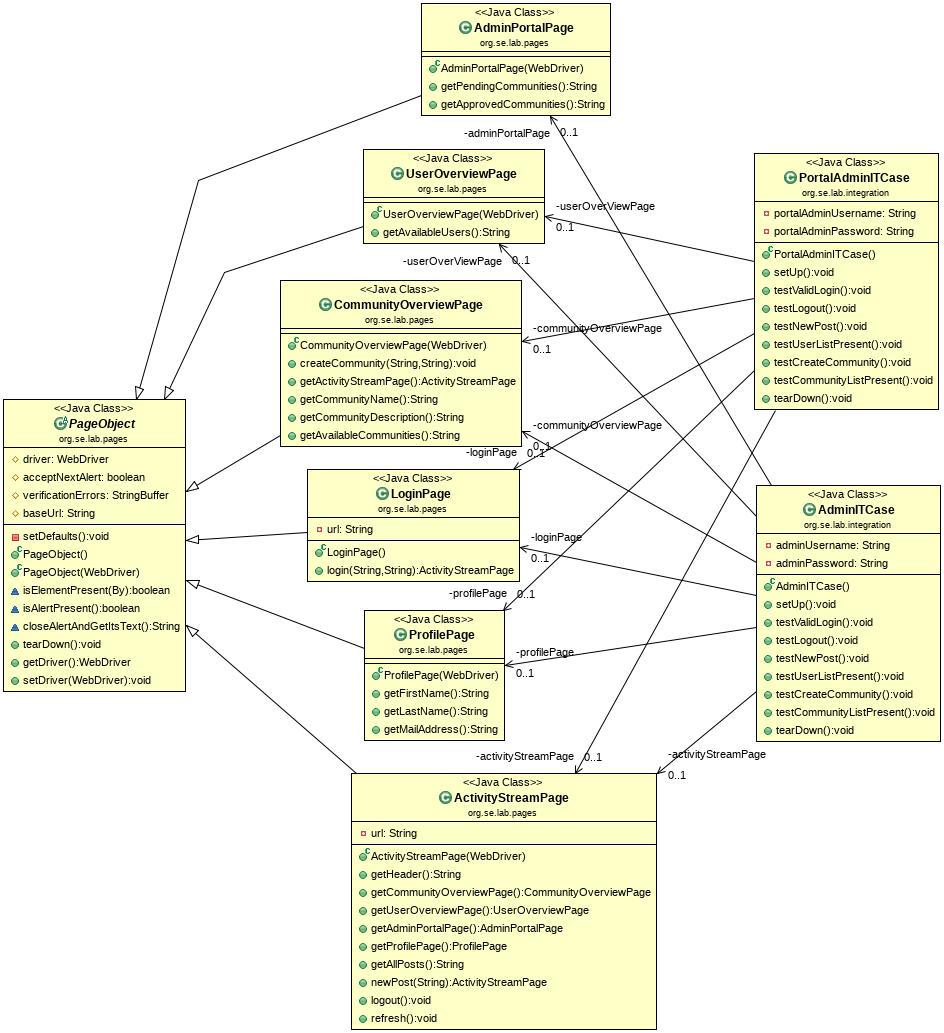
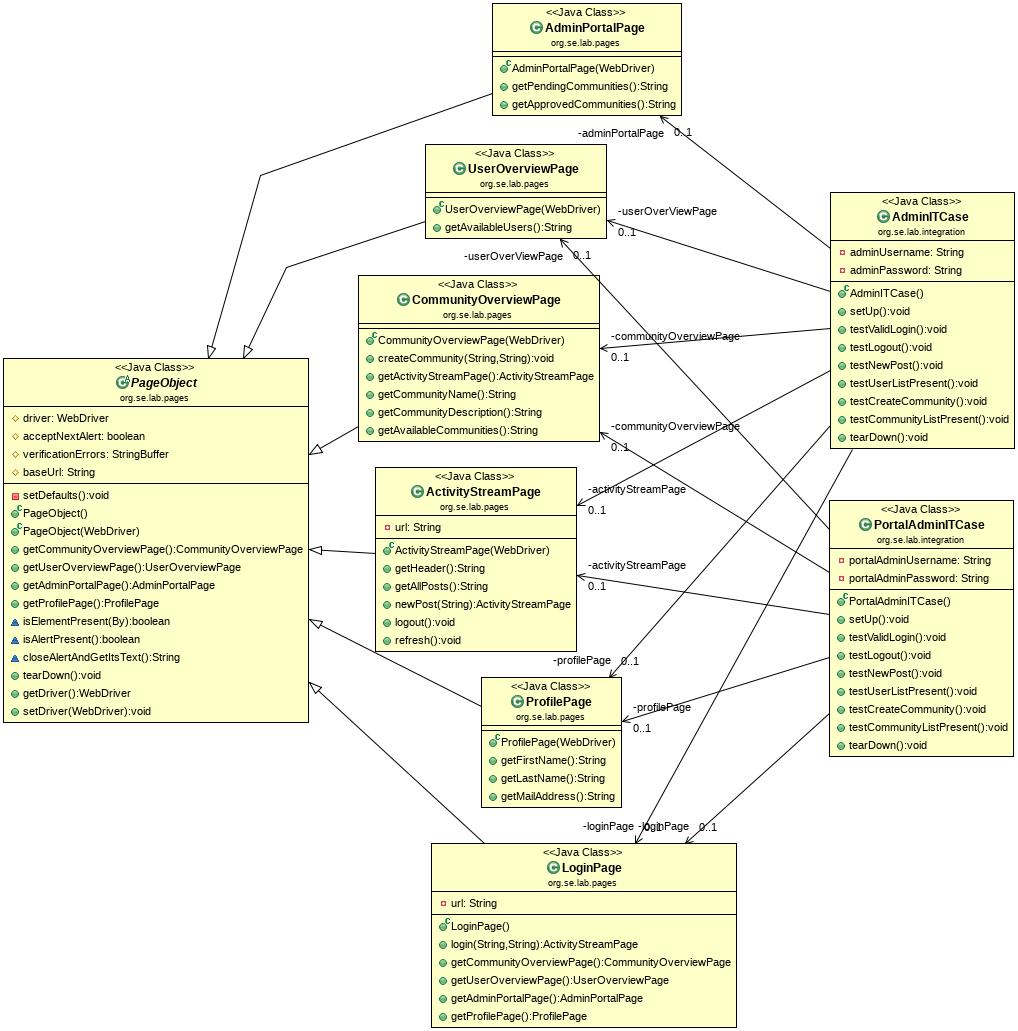
cleanup

Changed region(s): [[0.0, 0.0, 1.0, 1.0], [0.7066, 0.6518, 0.7373, 0.6828], [0.2458, 0.1552, 0.2765, 0.1862]]

diff --git a/src/test/java/org/se/lab/pages/ActivityStreamPage.java b/src/test/java/org/se/lab/pages/ActivityStreamPage.java
@@ -14,17 +14,18 @@ public class ActivityStreamPage extends PageObject {
 	public String getHeader() {
 		return driver.findElement(By.cssSelector("h2")).getText();
 	}
-
-	public CommunityOverviewPage getCommunityOverviewPage() {
-		// navigate to communityoverview.xhtml
-		driver.findElement(By.id("j_idt10:j_idt13")).click();
-		return new CommunityOverviewPage(driver);
+	
+	public String getAllPosts() {
+		return driver.findElement(By.id("j_idt22")).getText();
 	}
 
-	public UserOverviewPage getUserOverviewPage() {
-		// navigate to useroverview.xhtml
-		driver.findElement(By.id("j_idt10:j_idt14")).click();
-		return new UserOverviewPage(driver);
+	public ActivityStreamPage newPost(String message) {
+		driver.findElement(By.cssSelector("button.btn.btn-success")).click();
+		driver.findElement(By.id("input_j_idt24:j_idt26")).clear();
+		driver.findElement(By.id("input_j_idt24:j_idt26")).sendKeys(message);
+		driver.findElement(By.id("j_idt24:j_idt29")).click();
+		System.out.println(getAllPosts());
+		return this;
 	}
 	
 	public void logout() {

diff --git a/src/test/java/org/se/lab/pages/PageObject.java b/src/test/java/org/se/lab/pages/PageObject.java
@@ -31,6 +31,30 @@ public abstract class PageObject {
 		this.setDriver(driver);
 		setDefaults();
 	}
+	
+	public CommunityOverviewPage getCommunityOverviewPage() {
+		// navigate to communityoverview.xhtml
+		driver.findElement(By.id("j_idt10:j_idt13")).click();
+		return new CommunityOverviewPage(driver);
+	}
+
+	public UserOverviewPage getUserOverviewPage() {
+		// navigate to useroverview.xhtml
+		driver.findElement(By.id("j_idt10:j_idt14")).click();
+		return new UserOverviewPage(driver);
+	}
+	
+	public AdminPortalPage getAdminPortalPage() {
+	    driver.findElement(By.cssSelector("b.caret")).click();
+	    driver.findElement(By.linkText("Admin Area")).click();
+		return new AdminPortalPage(driver);
+	}
+	
+	public ProfilePage getProfilePage() {
+	    driver.findElement(By.cssSelector("b.caret")).click();
+	    driver.findElement(By.linkText("Profil")).click();
+		return new ProfilePage(driver);
+	}
 
 	boolean isElementPresent(By by) {
 		try {

diff --git a/src/test/java/org/se/lab/pages/LoginPage.java b/src/test/java/org/se/lab/pages/LoginPage.java
@@ -20,4 +20,21 @@ public class LoginPage extends PageObject {
 		
 		return new ActivityStreamPage(driver);
 	}
+	
+	@Override
+	public CommunityOverviewPage getCommunityOverviewPage() {
+		throw new UnsupportedOperationException();
+	}
+
+	public UserOverviewPage getUserOverviewPage() {
+		throw new UnsupportedOperationException();
+	}
+	
+	public AdminPortalPage getAdminPortalPage() {
+		throw new UnsupportedOperationException();
+	}
+	
+	public ProfilePage getProfilePage() {
+		throw new UnsupportedOperationException();
+	}
 }

diff --git a/src/test/java/org/se/lab/pages/CommunityOverviewPage.java b/src/test/java/org/se/lab/pages/CommunityOverviewPage.java
@@ -17,6 +17,12 @@ public class CommunityOverviewPage extends PageObject {
 	    driver.findElement(By.id("j_idt24:j_idt31")).click();
 	    driver.findElement(By.cssSelector("button.btn.btn-success")).click();
 	}
+	
+	public ActivityStreamPage getActivityStreamPage() {
+		// navigate to activityStream.xhtml
+	    driver.findElement(By.linkText("Activity Stream")).click();
+		return new ActivityStreamPage(driver);
+	}
 
 	public String getCommunityName() {
 		return driver.findElement(By.cssSelector("h2")).getText();

diff --git a/src/test/java/org/se/lab/integration/PortalAdminITCase.java b/src/test/java/org/se/lab/integration/PortalAdminITCase.java
@@ -60,7 +60,7 @@ public class PortalAdminITCase {
     }
 
     @Test
-    @Ignore // portaladmin can create community, but has to be accepted by admin
+    @Ignore // portaladmin can create community, but the community has to be approved by admin
     public void testCreateCommunity() throws Exception {
         String cname = UUID.randomUUID().toString();
         String cdesc = "Community description created by functional test.";

diff --git a/src/test/java/org/se/lab/integration/AdminITCase.java b/src/test/java/org/se/lab/integration/AdminITCase.java
@@ -1,6 +1,8 @@
 package org.se.lab.integration;
 
 import org.junit.After;
+
+
 import org.junit.Before;
 import org.junit.Test;
 import org.se.lab.pages.*;
